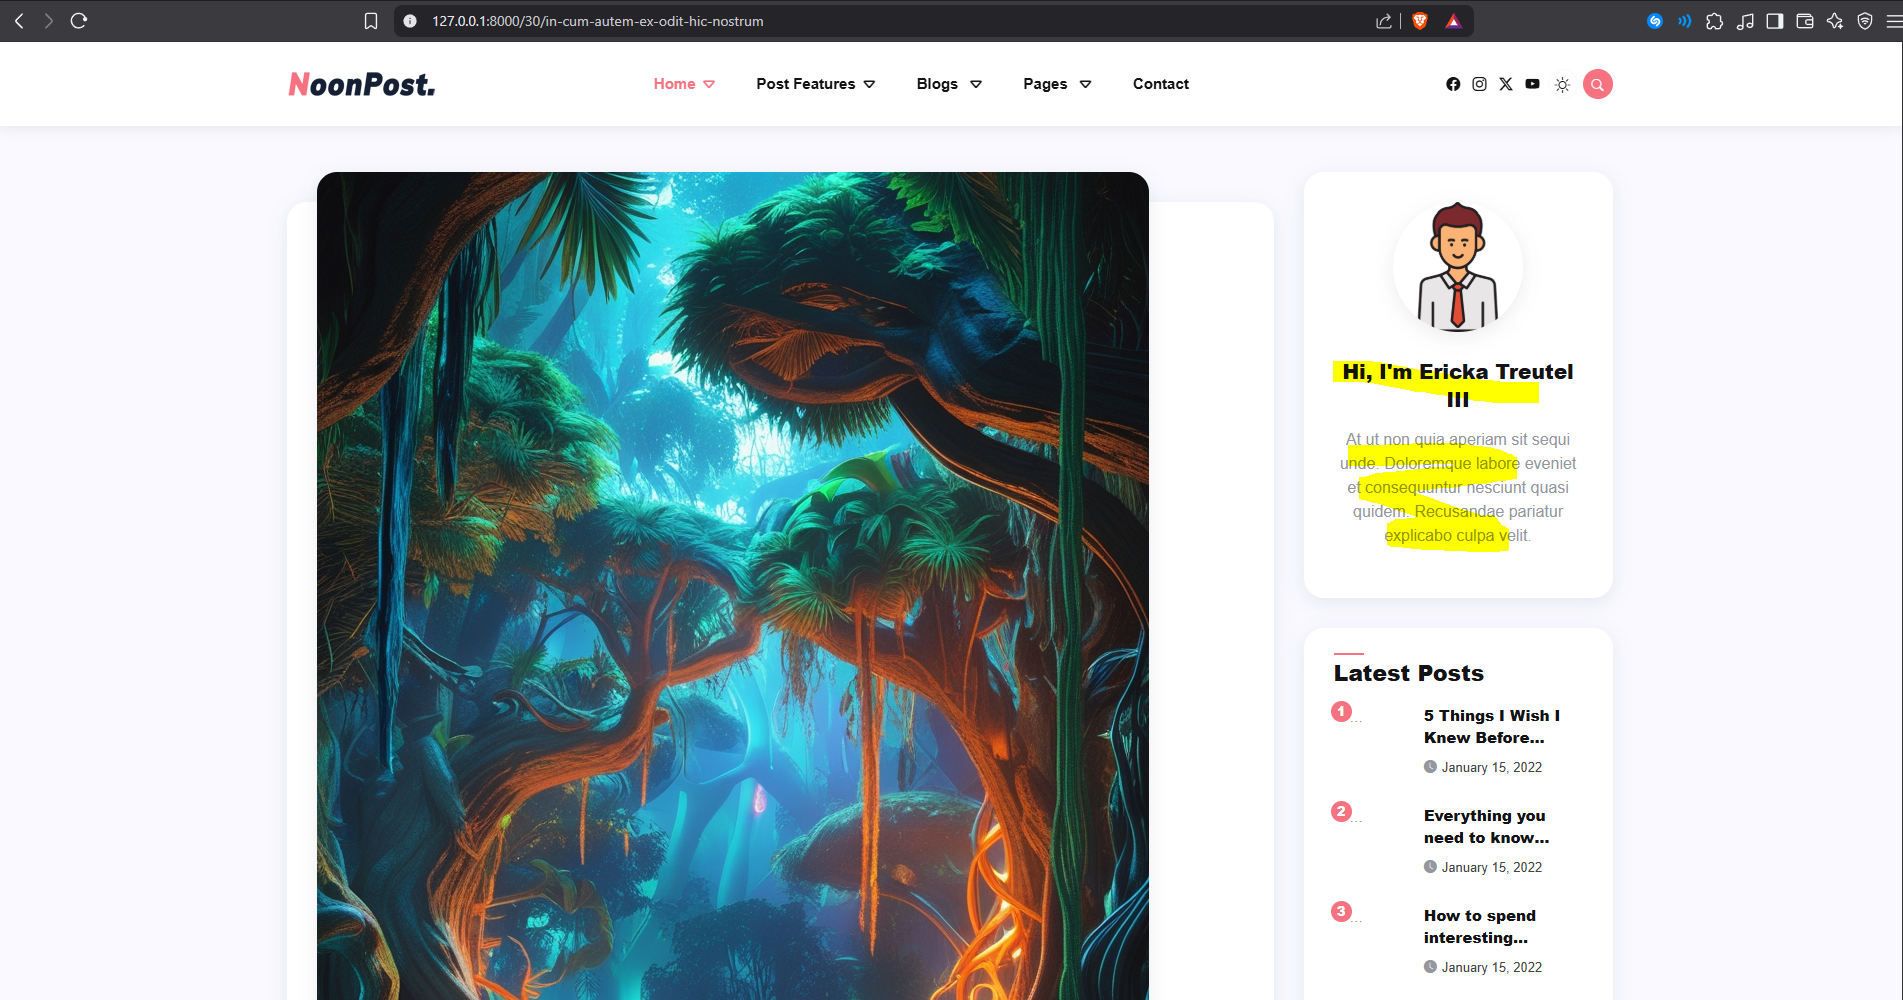
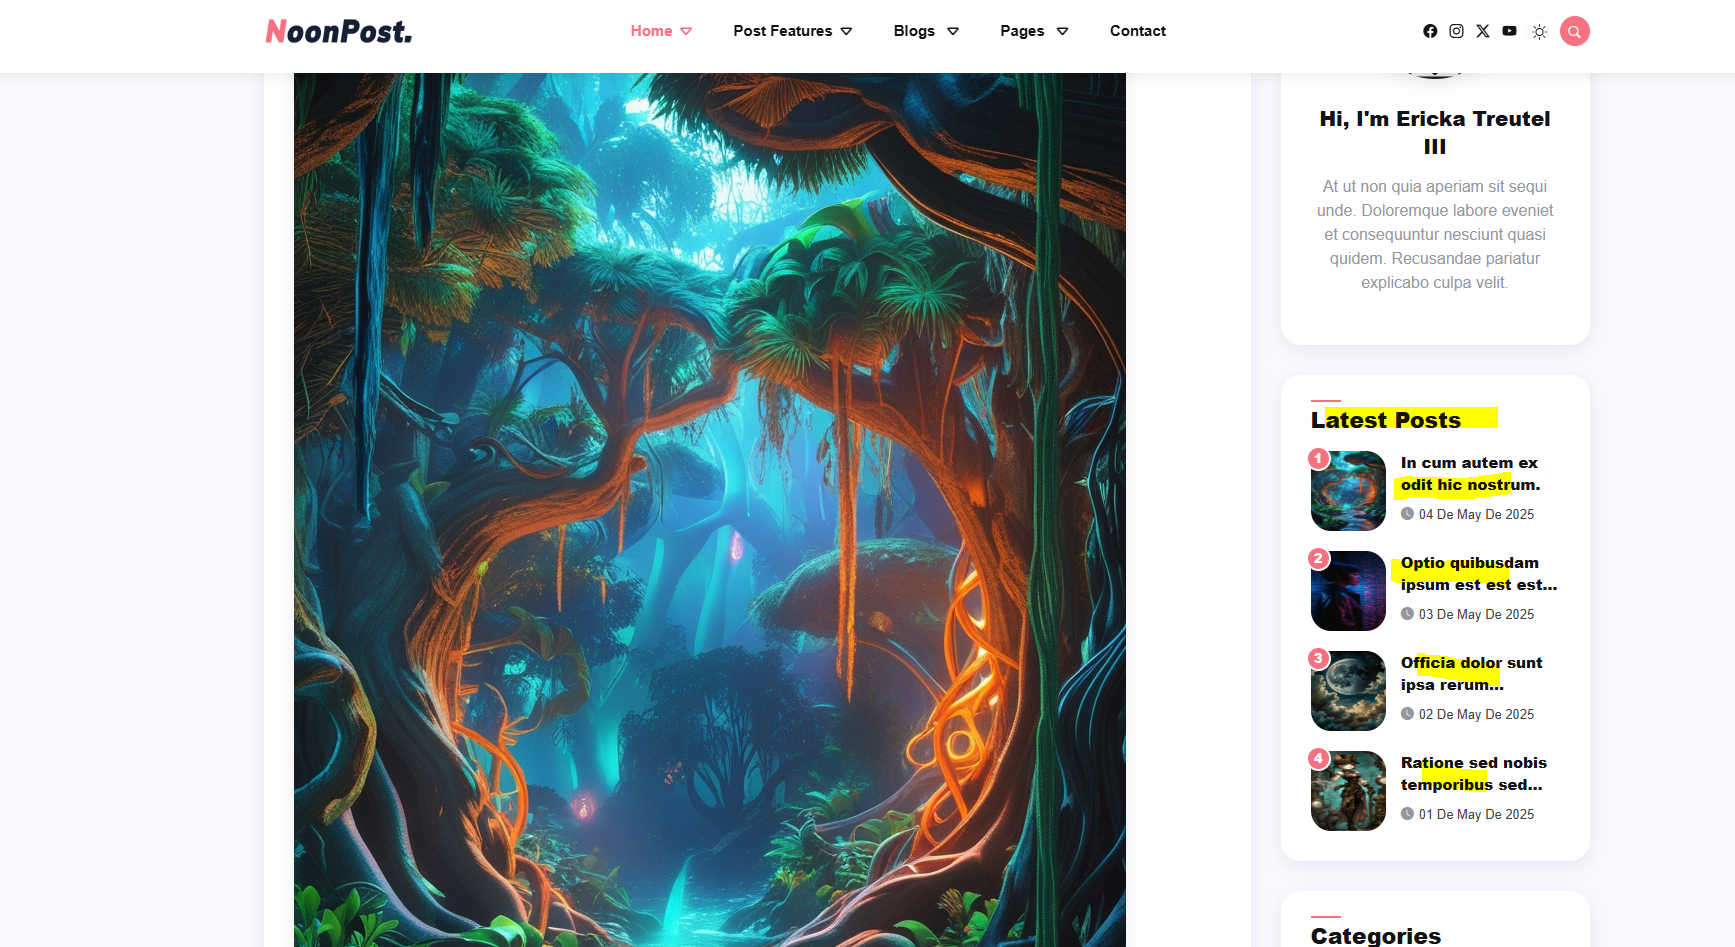
Se agrega el view y el PostController, lo que vendria ser los ultimos posts. La evidencia lo demuestra.

diff --git a/resources/views/blog/view.blade.php b/resources/views/blog/view.blade.php
@@ -163,77 +163,28 @@
                             <div class="widget">
                                 <h5 class="widget__title">Latest Posts</h5>
                                 <ul class="widget__latest-posts">
-                                    <!--post 1-->
-                                    <li class="widget__latest-posts__item">
-                                        <div class="widget__latest-posts-image">
-                                            <a href="post-default.html" class="widget__latest-posts-link">
-                                                <img src="assets/img/latest/1.jpg" alt="..." class="widget__latest-posts-img">
-                                            </a>
-                                        </div>
-                                        <div class="widget__latest-posts-count">1</div>
-                                        <div class="widget__latest-posts__content">
-                                            <p class="widget__latest-posts-title">
-                                                <a href="post-default.html" class="widget__latest-posts-link">5 Things I Wish I Knew Before Traveling to Malaysia</a>
-                                            </p>
-                                            <small class="widget__latest-posts-date">
-                                                <i class="bi bi-clock-fill widget__latest-posts-icon"></i>January 15, 2022
-                                            </small>
-                                        </div>
-                                    </li>
-
-                                    <!--post 2-->
-                                    <li class="widget__latest-posts__item">
-                                        <div class="widget__latest-posts-image">
-                                            <a href="post-default.html" class="widget__latest-posts-link">
-                                                <img src="assets/img/latest/2.jpg" alt="..." class="widget__latest-posts-img">
-                                            </a>
-                                        </div>
-                                        <div class="widget__latest-posts-count">2</div>
-                                        <div class="widget__latest-posts__content">
-                                            <p class="widget__latest-posts-title">
-                                                <a href="post-default.html" class="widget__latest-posts-link">Everything you need to know about visiting the Amazon.</a>
-                                            </p>
-                                            <small class="widget__latest-posts-date">
-                                                <i class="bi bi-clock-fill widget__latest-posts-icon"></i>January 15, 2022
-                                            </small>
-                                        </div>
-                                    </li>
-
-                                        <!--post 3-->
-                                    <li class="widget__latest-posts__item">
-                                        <div class="widget__latest-posts-image">
-                                            <a href="post-default.html" class="widget__latest-posts-link">
-                                                <img src="assets/img/latest/3.jpg" alt="..." class="widget__latest-posts-img">
-                                            </a>
-                                        </div>
-                                        <div class="widget__latest-posts-count">3</div>
-                                        <div class="widget__latest-posts__content">
-                                            <p class="widget__latest-posts-title">
-                                                <a href="post-default.html" class="widget__latest-posts-link">How to spend interesting vacation after hard work?</a>
-                                            </p>
-                                            <small class="widget__latest-posts-date">
-                                                <i class="bi bi-clock-fill widget__latest-posts-icon"></i>January 15, 2022
-                                            </small>
-                                        </div>
-                                    </li>
-
-                                    <!--post 4-->
-                                    <li class="widget__latest-posts__item">
-                                        <div class="widget__latest-posts-image">
-                                            <a href="post-default.html" class="widget__latest-posts-link">
-                                                <img src="assets/img/latest/4.jpg" alt="..." class="widget__latest-posts-img">
-                                            </a>
-                                        </div>
-                                        <div class="widget__latest-posts-count">4</div>
-                                        <div class="widget__latest-posts__content">
-                                            <p class="widget__latest-posts-title">
-                                                <a href="post-default.html" class="widget__latest-posts-link">10 Best and Most Beautiful Places to Visit in Italy</a>
-                                            </p>
-                                            <small class="widget__latest-posts-date">
-                                                <i class="bi bi-clock-fill widget__latest-posts-icon"></i>January 15, 2022
-                                            </small>
-                                        </div>
-                                    </li>
+                                    @foreach ($latestPosts as $index => $post)
+                                        <!-- Post {{ $index + 1 }} -->
+                                        <li class="widget__latest-posts__item">
+                                            <div class="widget__latest-posts-image">
+                                                <a href="{{ route('posts.show', ['id' => $post->id, 'slug' => $post->slug]) }}" class="widget__latest-posts-link">
+                                                    <img src="{{ asset('storage/' . $post->featured_image) }}" alt="{{ $post->title }}" class="widget__latest-posts-img">
+                                                </a>
+                                            </div>
+                                            <div class="widget__latest-posts-count">{{ $index + 1 }}</div>
+                                            <div class="widget__latest-posts__content">
+                                                <p class="widget__latest-posts-title">
+                                                    <a href="{{ route('posts.show', ['id' => $post->id, 'slug' => $post->slug]) }}" class="widget__latest-posts-link">
+                                                        {{ $post->title }}
+                                                    </a>
+                                                </p>
+                                                <small class="widget__latest-posts-date">
+                                                    <i class="bi bi-clock-fill widget__latest-posts-icon"></i>
+                                                    {{ $post->published_at->translatedFormat('d \d\e F \d\e Y') }}
+                                                </small>
+                                            </div>
+                                        </li>
+                                    @endforeach
                                 </ul>
                             </div>
 

diff --git a/app/Http/Controllers/PostController.php b/app/Http/Controllers/PostController.php
@@ -21,12 +21,13 @@ class PostController extends Controller
         // Buscar el post por ID
         $post = Post::with(['user', 'categories'])->findOrFail($id);
 
+        $latestPosts = Post::latest('published_at')->take(value: 4)->get();
         // Verificar que el slug en la URL coincida con el slug del post
         if ($post->slug !== $slug) {
             abort(404); // Mostrar error 404 si no coincide
         }
 
         // Retornar la vista con los datos del post
-        return view('blog.view', compact('post'));
+        return view('blog.view', compact('post','latestPosts'));
     }
 }
